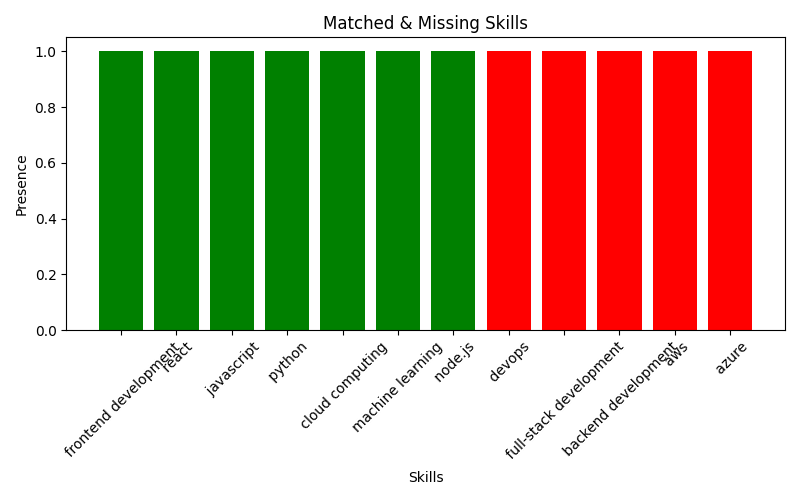
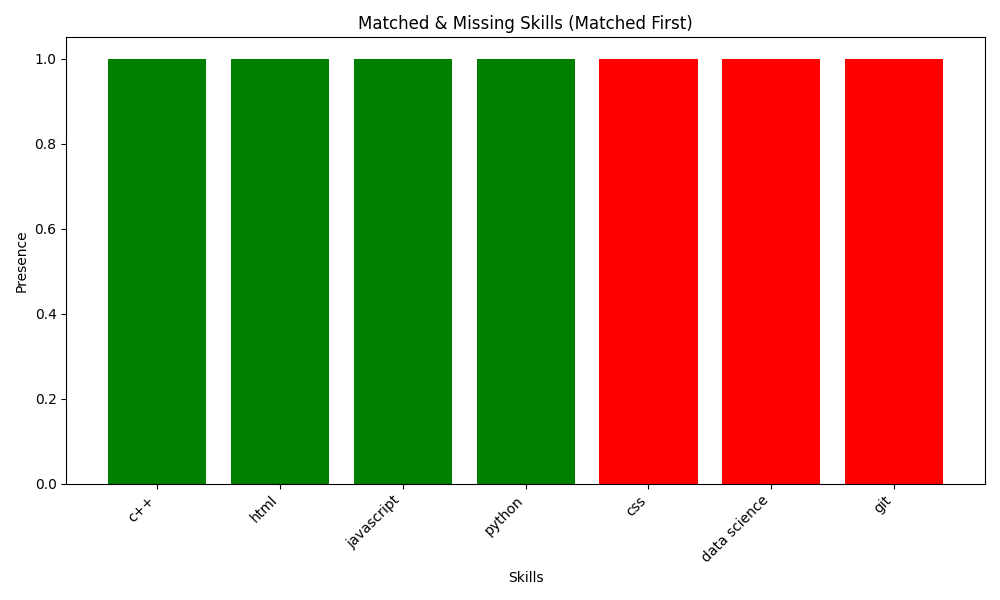
modified code

diff --git a/templates/result.html b/templates/result.html
@@ -7,7 +7,7 @@
 </head>
 <body>
     <h1>Resume Analysis Results</h1>
-
+    <p><strong>Name:</strong> {{ name }}</p>
     <p><strong>Email:</strong> {{ email }}</p>
     <p><strong>Phone:</strong> {{ phone }}</p>
     <p><strong>Address:</strong> {{ address }}</p>

diff --git a/app.py b/app.py
@@ -8,12 +8,63 @@ from fuzzywuzzy import process
 
 app = Flask(__name__)
 
-# Synonym Dictionary for Skill Matching
+# Master Skill List for Extraction
+master_skill_list = [
+    # Programming Languages
+    "python", "java", "c++", "c", "c#", "javascript", "typescript", 
+    "ruby", "php", "swift", "kotlin", "go", "rust", "scala", "r", 
+    "dart", "perl", "bash", "sql",
+
+    # Web Development
+    "html", "css", "react", "angular", "vue", "django", "flask", 
+    "spring", "laravel", "node.js", "express", "jquery", "bootstrap",
+    "sass", "less", "tailwind", "redux", "graphql", "rest api", "react.js",
+
+    # Mobile Development
+    "android", "ios", "flutter", "react native", "xamarin",
+
+    # Databases
+    "mysql", "postgresql", "oracle", "sqlite", "mongodb", "redis", 
+    "firebase", "cassandra", "mariadb", "elasticsearch",
+
+    # DevOps & Cloud
+    "aws", "azure", "google cloud", "docker", "kubernetes", "jenkins", 
+    "ansible", "terraform", "github actions", "gitlab ci", "nginx", 
+    "apache", "linux", "windows server",
+
+    # Data Science & AI
+    "machine learning", "deep learning", "tensorflow", "pytorch", 
+    "keras", "opencv", "numpy", "pandas", "scikit-learn", "matplotlib", 
+    "seaborn", "spark", "hadoop", "tableau", "power bi", "data science",
+
+    # Version Control & Tools
+    "git", "github", "gitlab", "bitbucket", "svn", "mercurial",
+    "jira", "trello", "confluence", "slack", "docker", "postman",
+
+    # Testing
+    "selenium", "jest", "mocha", "junit", "pytest", "cypress",
+
+    # Cybersecurity
+    "ethical hacking", "penetration testing", "owasp", "kali linux",
+    "metasploit", "burp suite", "siem", "splunk",
+
+    # Methodologies
+    "agile", "scrum", "kanban", "devops", "ci/cd", "tdd", "bdd",
+
+    # Other IT Skills
+    "data structures", "algorithms", "oop", "functional programming",
+    "microservices", "serverless", "blockchain", "solidity",
+    "arduino", "raspberry pi", "embedded systems","networking"
+]
+
+
+# Synonym Dictionary
 synonym_dict = {
     "machine learning": ["ml", "deep learning", "artificial intelligence"],
-    "data analysis": ["data analytics", "business intelligence"],
+    "data scientist": ["data science", "research scientist"],
     "nlp": ["natural language processing"],
-    "sql": ["structured query language"]
+    "sql": ["structured query language", "database management"],
+    "python": ["py"],
 }
 
 # Function to Extract Text from PDF
@@ -31,26 +82,68 @@ def extract_text_from_docx(docx_path):
     text = "\n".join([para.text for para in doc.paragraphs])
     return text.lower()
 
-# Function to Extract Information from Resume Text
-def extract_resume_info(text):
-    name_match = re.search(r"([A-Z][a-z]+(?:\s[A-Z][a-z]+)*)", text)
-    name = name_match.group(0) if name_match else "Not Found"
 
+# Function to Extract Name from Email
+def extract_name_from_email(email):
+    """Extract first and last name from email, handling cases with numbers or extra info."""
+    if email == "Not Found":
+        return "Not Found"
+    
+    # Extract prefix before '@'
+    prefix = email.split("@")[0]
+    
+    # Remove numbers from the prefix (e.g., 'bscsf22' becomes 'bscsf')
+    prefix = re.sub(r'\d+', '', prefix)
+    
+    # Remove possible domain-like info (e.g., 'bscsf22' should be removed leaving 'Umairahmed')
+    prefix = re.sub(r'\b[a-zA-Z]{2,}\d{2,}\b', '', prefix).strip()
+
+    # Split by underscores or dots to separate potential first and last names
+    parts = re.split(r"[._]", prefix)
+    
+    # Capitalize each part and join with spaces
+    name_parts = [part.capitalize() for part in parts if part]
+    
+    # If the name has a single part, assume it's the first name (like 'umair')
+    if len(name_parts) == 1:
+        name = name_parts[0]
+    else:
+        # Assume the first part is the first name and avoid extra info
+        name = name_parts[0]  # Take the first part for the name (like 'Umairahmed')
+    
+    return name if name else "Not Found"
+
+
+# Function to Extract Resume Info
+def extract_resume_info(text):
+    # Email Extraction (key for name)
     email_match = re.search(r"[a-zA-Z0-9._%+-]+@[a-zA-Z0-9.-]+\.[a-zA-Z]{2,}", text)
     email = email_match.group(0) if email_match else "Not Found"
 
-    phone_match = re.search(r"\+?\d[\d -]{8,12}\d", text)
+    # Name Extraction (priority: email > first line)
+    name = extract_name_from_email(email)
+    if name == "Not Found":
+        # Fallback: First two capitalized words in the first line
+        first_line = text.split("\n")[0].strip()
+        words = [word for word in first_line.split() if word[0].isupper()]
+        name = " ".join(words[:2]) if len(words) >= 2 else "Not Found"
+
+    # Phone Extraction (enhanced pattern for international formats)
+    phone_match = re.search(r"\(?\+?\d{1,4}?\)?[-.\s]?\(?\d{1,3}?\)?[-.\s]?\d{1,4}[-.\s]?\d{1,4}[-.\s]?\d{1,4}", text)
     phone = phone_match.group(0) if phone_match else "Not Found"
 
-    address_match = re.search(r"\d{1,5}\s\w+\s\w+", text)
+    # Address Extraction (improved regex to handle more address formats)
+    address_match = re.search(r"\b[A-Z][a-zA-Z\s]+,\s*[A-Z]{2,}", text)
     address = address_match.group(0) if address_match else "Not Found"
 
-    words = re.findall(r"\b\w+\b", text)
-    skills = set(words)
+    # Skills Extraction (check for skills in the master list)
+    words = re.findall(r"\b[a-zA-Z0-9\+\#]+\b", text.lower())
+    skills = {word for word in words if word in master_skill_list}
 
     return name, email, phone, address, skills
 
-# Function to Normalize Resume Skills using Synonyms
+
+# Function to Normalize Resume Skills
 def normalize_skills(resume_skills):
     normalized_resume_skills = set()
     for skill in resume_skills:
@@ -64,12 +157,12 @@ def normalize_skills(resume_skills):
             normalized_resume_skills.add(skill)
     return normalized_resume_skills
 
-# Function for Fuzzy Matching
-def fuzzy_match(skill, job_keywords, threshold=80):
+# Function for Strict Fuzzy Matching
+def fuzzy_match(skill, job_keywords, threshold=90):
     match, score = process.extractOne(skill, job_keywords)
     return match if score >= threshold else None
 
-# Function to Process Resume & Match with Job Description
+# Function to Process Resume
 def process_resume(resume_path, job_keywords):
     if resume_path.endswith(".pdf"):
         resume_text = extract_text_from_pdf(resume_path)
@@ -77,17 +170,29 @@ def process_resume(resume_path, job_keywords):
         resume_text = extract_text_from_docx(resume_path)
     else:
         return None, None, None, None, None, None, None
-    
+
+    # Extract information from resume
     name, email, phone, address, resume_skills = extract_resume_info(resume_text)
+    
+    # Normalize skills using synonyms
     normalized_resume_skills = normalize_skills(resume_skills)
     final_matched_skills = set()
 
-    for skill in normalized_resume_skills:
-        best_match = fuzzy_match(skill, job_keywords)
-        if best_match:
-            final_matched_skills.add(best_match)
+    # Database skills that should be matched explicitly
+    database_skills = {"mysql", "postgresql", "oracle", "SQL"}
 
-    match_percentage = (len(final_matched_skills) / len(job_keywords)) * 100
+    # Match skills using fuzzy matching
+    for skill in normalized_resume_skills:
+        if skill in database_skills:
+            if any(db in job_keywords for db in database_skills):
+                final_matched_skills.add(skill)
+        else:
+            best_match = fuzzy_match(skill, job_keywords)
+            if best_match:
+                final_matched_skills.add(best_match)
+
+    # Calculate match percentage
+    match_percentage = round((len(final_matched_skills) / len(job_keywords)) * 100, 2)
     missing_skills = set(job_keywords) - final_matched_skills
 
     # Generate Visualization
@@ -95,41 +200,54 @@ def process_resume(resume_path, job_keywords):
 
     return name, email, phone, address, final_matched_skills, match_percentage, missing_skills
 
-# Function to Generate Bar & Pie Charts (Without NumPy)
+# Function to Generate Visualizations (Bar and Pie charts)
 def generate_visualization(matched_skills, missing_skills, match_percentage):
-    skills = list(matched_skills) + list(missing_skills)
-    presence = [1] * len(skills)  # Replaces np.ones()
+    # Use Agg backend to avoid GUI interaction errors
+    plt.switch_backend('Agg')
 
+    matched_skills = sorted(list(matched_skills))  # sort matched skills alphabetically
+    missing_skills = sorted(list(missing_skills))  # sort missing skills alphabetically
+
+    skills = matched_skills + missing_skills
+    presence = [1] * len(skills)
     colors = ["green"] * len(matched_skills) + ["red"] * len(missing_skills)
 
     # Bar Chart
-    plt.figure(figsize=(8, 5))
+    plt.figure(figsize=(10, 6))
     plt.bar(skills, presence, color=colors)
     plt.xlabel("Skills")
     plt.ylabel("Presence")
-    plt.title("Matched & Missing Skills")
-    plt.xticks(rotation=45)
+    plt.title("Matched & Missing Skills (Matched First)")
+    plt.xticks(rotation=45, ha="right")
     plt.tight_layout()
     plt.savefig("static/bar_chart.png")
     plt.close()
 
     # Pie Chart
     plt.figure(figsize=(5, 5))
-    plt.pie([match_percentage, 100 - match_percentage], labels=["Matched", "Not Matched"], colors=["green", "red"], autopct="%1.1f%%")
+    plt.pie(
+        [match_percentage, 100 - match_percentage],
+        labels=["Matched", "Not Matched"],
+        colors=["green", "red"],
+        autopct="%1.1f%%",
+        startangle=140
+    )
     plt.title("Resume Match Percentage")
     plt.savefig("static/pie_chart.png")
     plt.close()
 
+# Flask Route
 @app.route("/", methods=["GET", "POST"])
 def index():
     if request.method == "POST":
         job_keywords = request.form["job_description"].lower().split(",")
+        job_keywords = [keyword.strip() for keyword in job_keywords]
         file = request.files["resume"]
         if file:
             filepath = os.path.join("uploads", file.filename)
             file.save(filepath)
             name, email, phone, address, matched_skills, match_percentage, missing_skills = process_resume(filepath, job_keywords)
-            os.remove(filepath)  
+            os.remove(filepath)
             return render_template("result.html", name=name, email=email, phone=phone, address=address, skills=matched_skills, percentage=match_percentage)
     return render_template("index.html")
 
@@ -137,3 +255,8 @@ if __name__ == "__main__":
     if not os.path.exists("uploads"):
         os.makedirs("uploads")
     app.run(debug=True)
+
+
+
+
+
